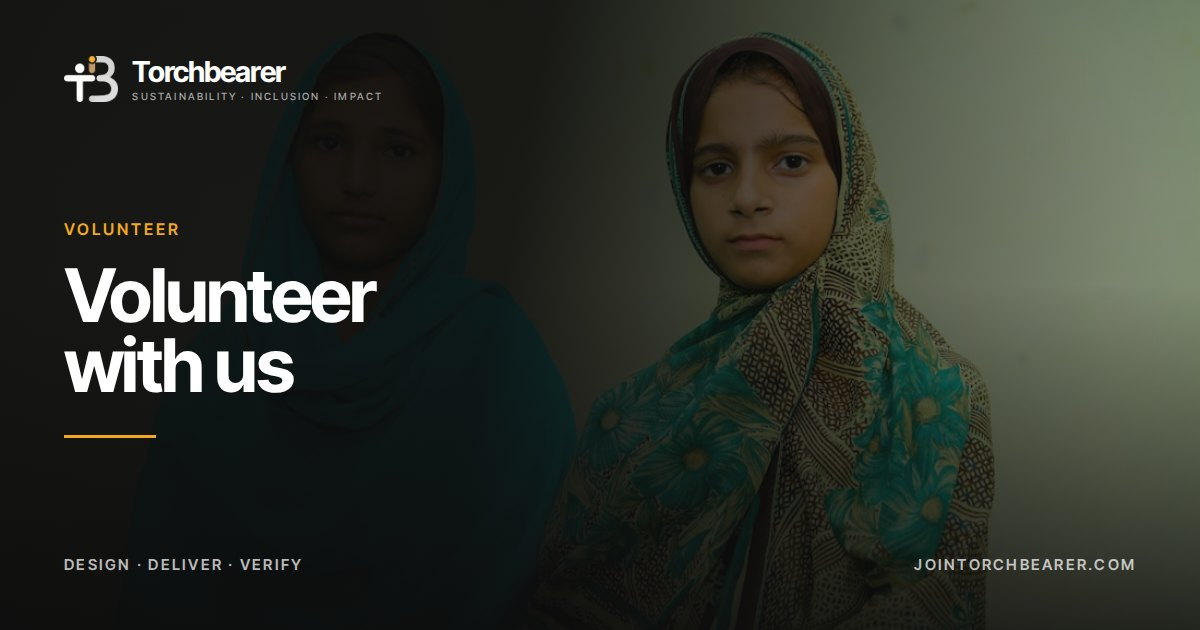
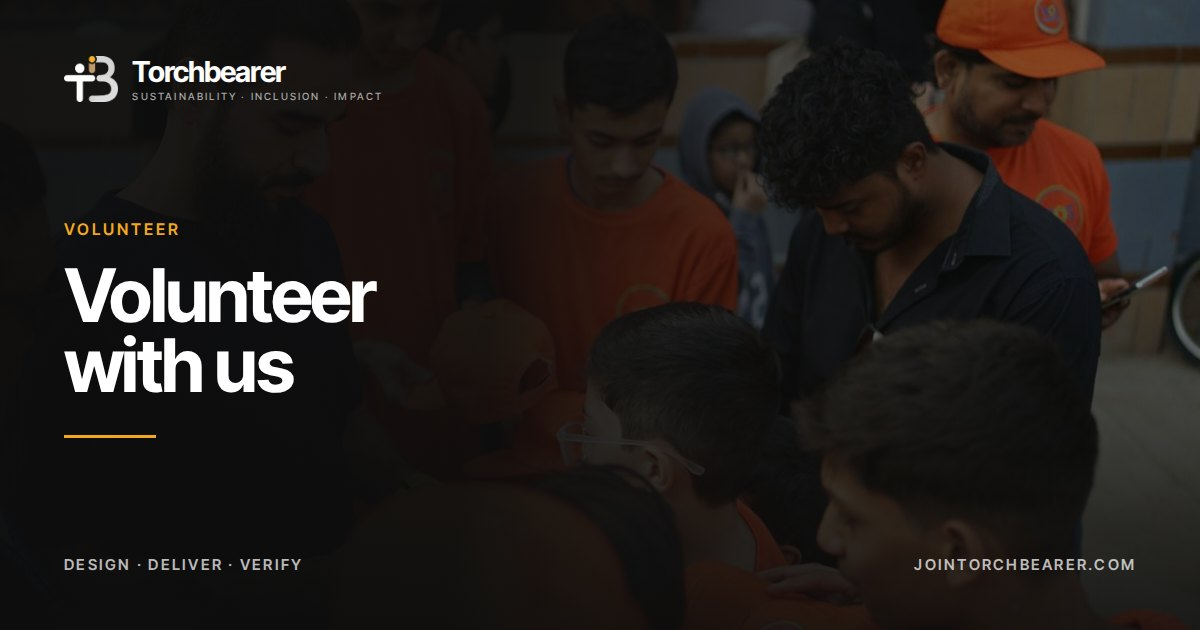
Use a real volunteering scene on the volunteer page
The band was a tall portrait cropped to a chin — a 0.61:1 source in a 3:1 slot
was never going to work. Replaced with volunteers in vests being briefed before
a session, which is both landscape and actually about volunteering. The share
card uses the same image.

The source is cropped on the left before saving: a third-party organisation's
lanyard was legible there, which does not belong on a page recruiting for
Torchbearer.

Claude-Session: https://claude.ai/code/session_01MSFxi7sLJ3RS3zWR6DisDW

diff --git a/volunteer.html b/volunteer.html
@@ -201,7 +201,7 @@
 </section>
 
 <section class="mband" style="height:clamp(280px,34vw,460px)">
-  <img class="mband__img" src="/assets/img/photos/photo-1657527284154-2102a35f4caa.jpg" alt="Students working at their desks">
+  <img class="mband__img" src="/assets/img/photos/photo-1778864875183-9a89ea0ac26f.jpg" alt="Volunteers being briefed before a session">
   <div class="wrap mband__in">
     <p class="mband__cap">The best programmes are run by the people the programme is for</p>
   </div>

diff --git a/tools/pages/volunteer.html b/tools/pages/volunteer.html
@@ -11,7 +11,7 @@
 </section>
 
 <section class="mband" style="height:clamp(280px,34vw,460px)">
-  <img class="mband__img" src="assets/img/photos/photo-1657527284154-2102a35f4caa.jpg" alt="Students working at their desks">
+  <img class="mband__img" src="assets/img/photos/photo-1778864875183-9a89ea0ac26f.jpg" alt="Volunteers being briefed before a session">
   <div class="wrap mband__in">
     <p class="mband__cap">The best programmes are run by the people the programme is for</p>
   </div>
